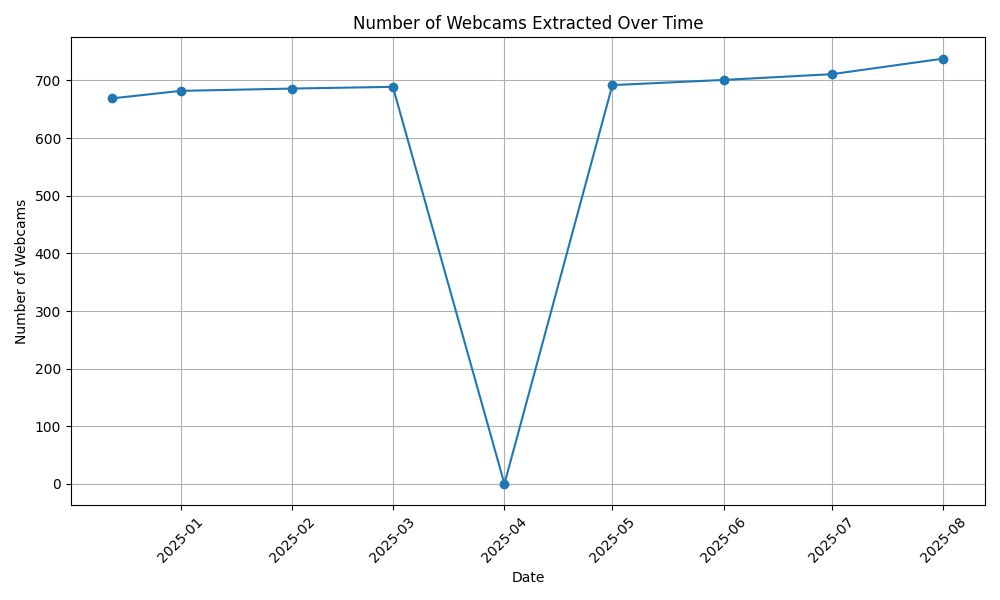
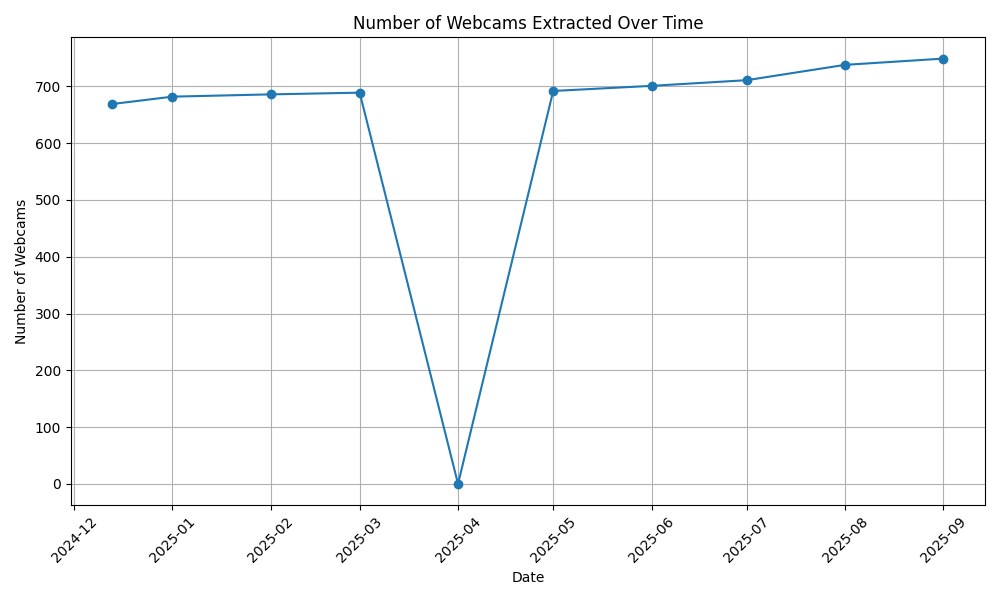
Skaping 2025-09-01

diff --git a/Skaping/README.md b/Skaping/README.md
@@ -1,10 +1,10 @@
 # Skaping 🎥
 
-**Data last updated on: '2025-08-01''2025-07-01''2025-06-01'**
+**Data last updated on: '2025-09-01''2025-08-01''2025-07-01''2025-06-01'**
 
 Data extracted from: [Skaping](https://www.skaping.com)
 
-![History Diagram](webcam_count_history.png?img_date='2025-08-01''2025-07-01''2025-06-01')
+![History Diagram](webcam_count_history.png?img_date='2025-09-01''2025-08-01''2025-07-01''2025-06-01')
 
 ## 📅 Use the Latest Data Scraped Each Month
 
